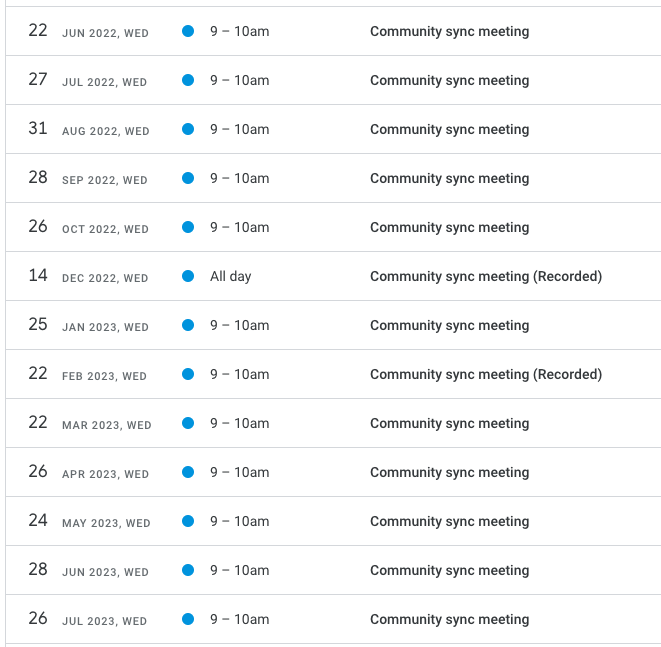
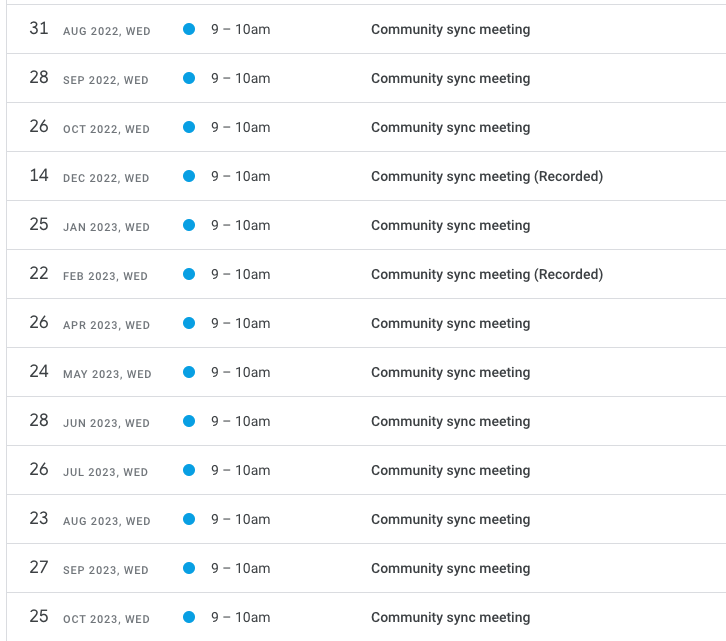
[DOCS][MINOR] Fix community sync schedule
- Add link for Oracle cloud in storage configurations side nav

diff --git a/website/sidebars.js b/website/sidebars.js
@@ -109,7 +109,8 @@ module.exports = {
                         'cos_hoodie',
                         'ibm_cos_hoodie',
                         'bos_hoodie',
-                        'jfs_hoodie'
+                        'jfs_hoodie',
+                        'oci_hoodie'
                     ],
                 },
             ],
